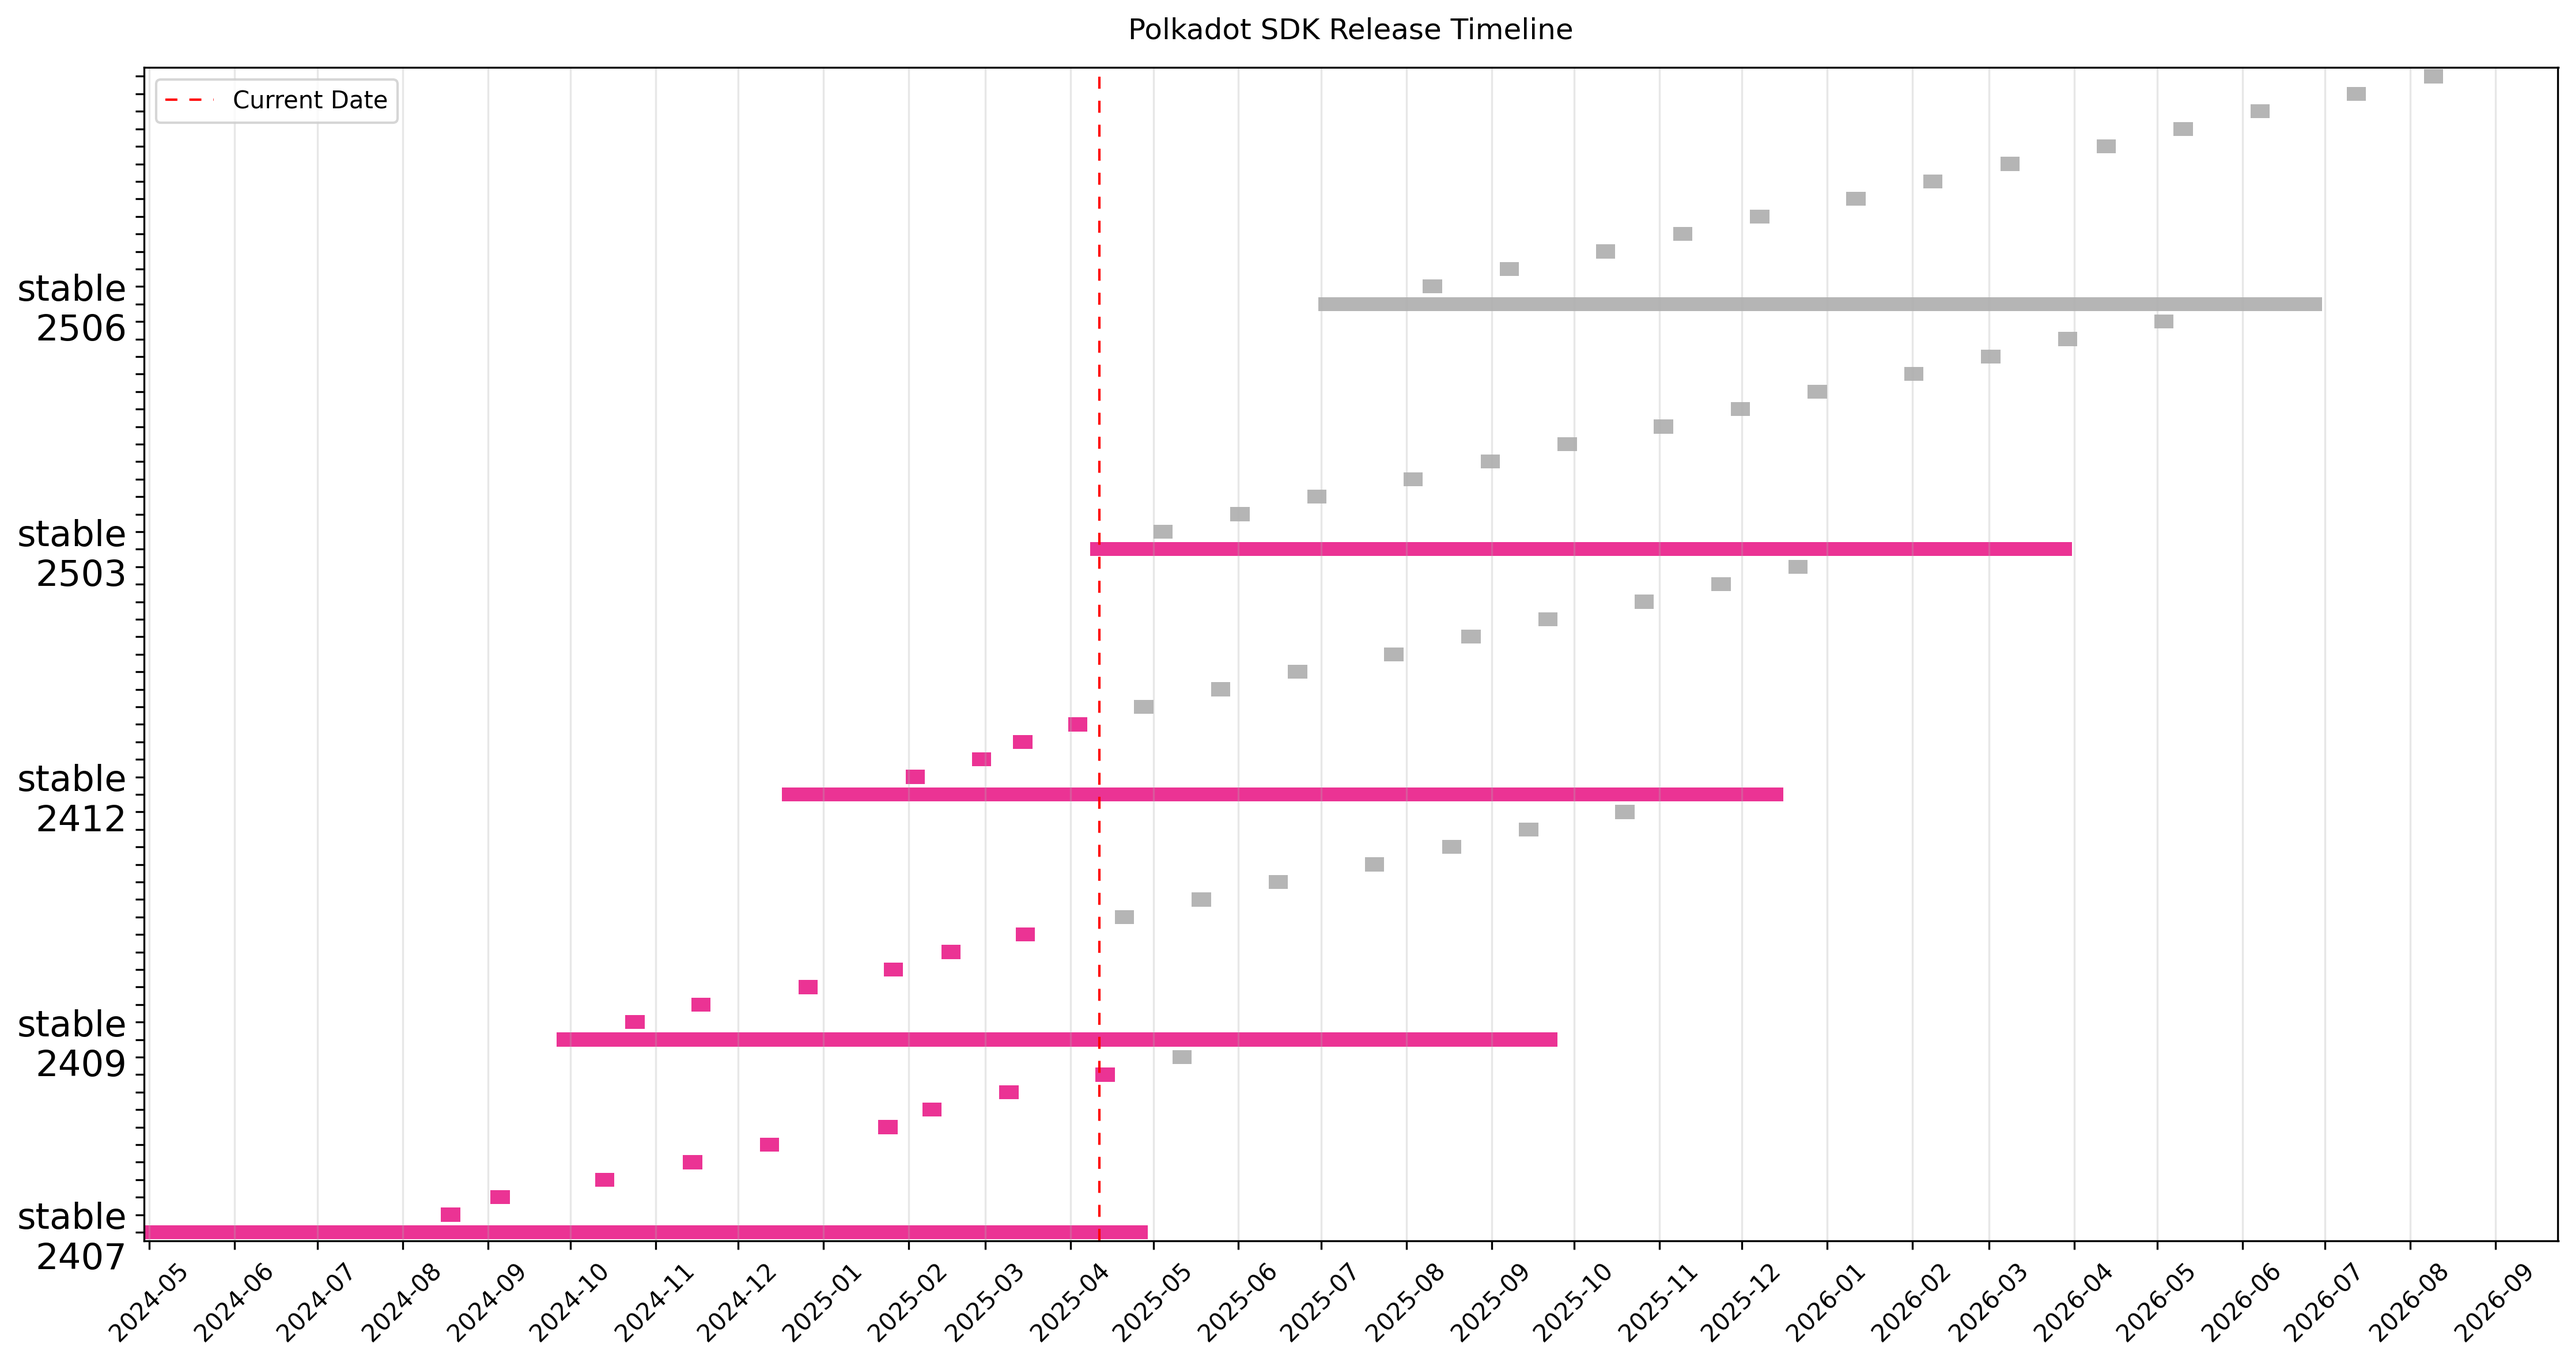
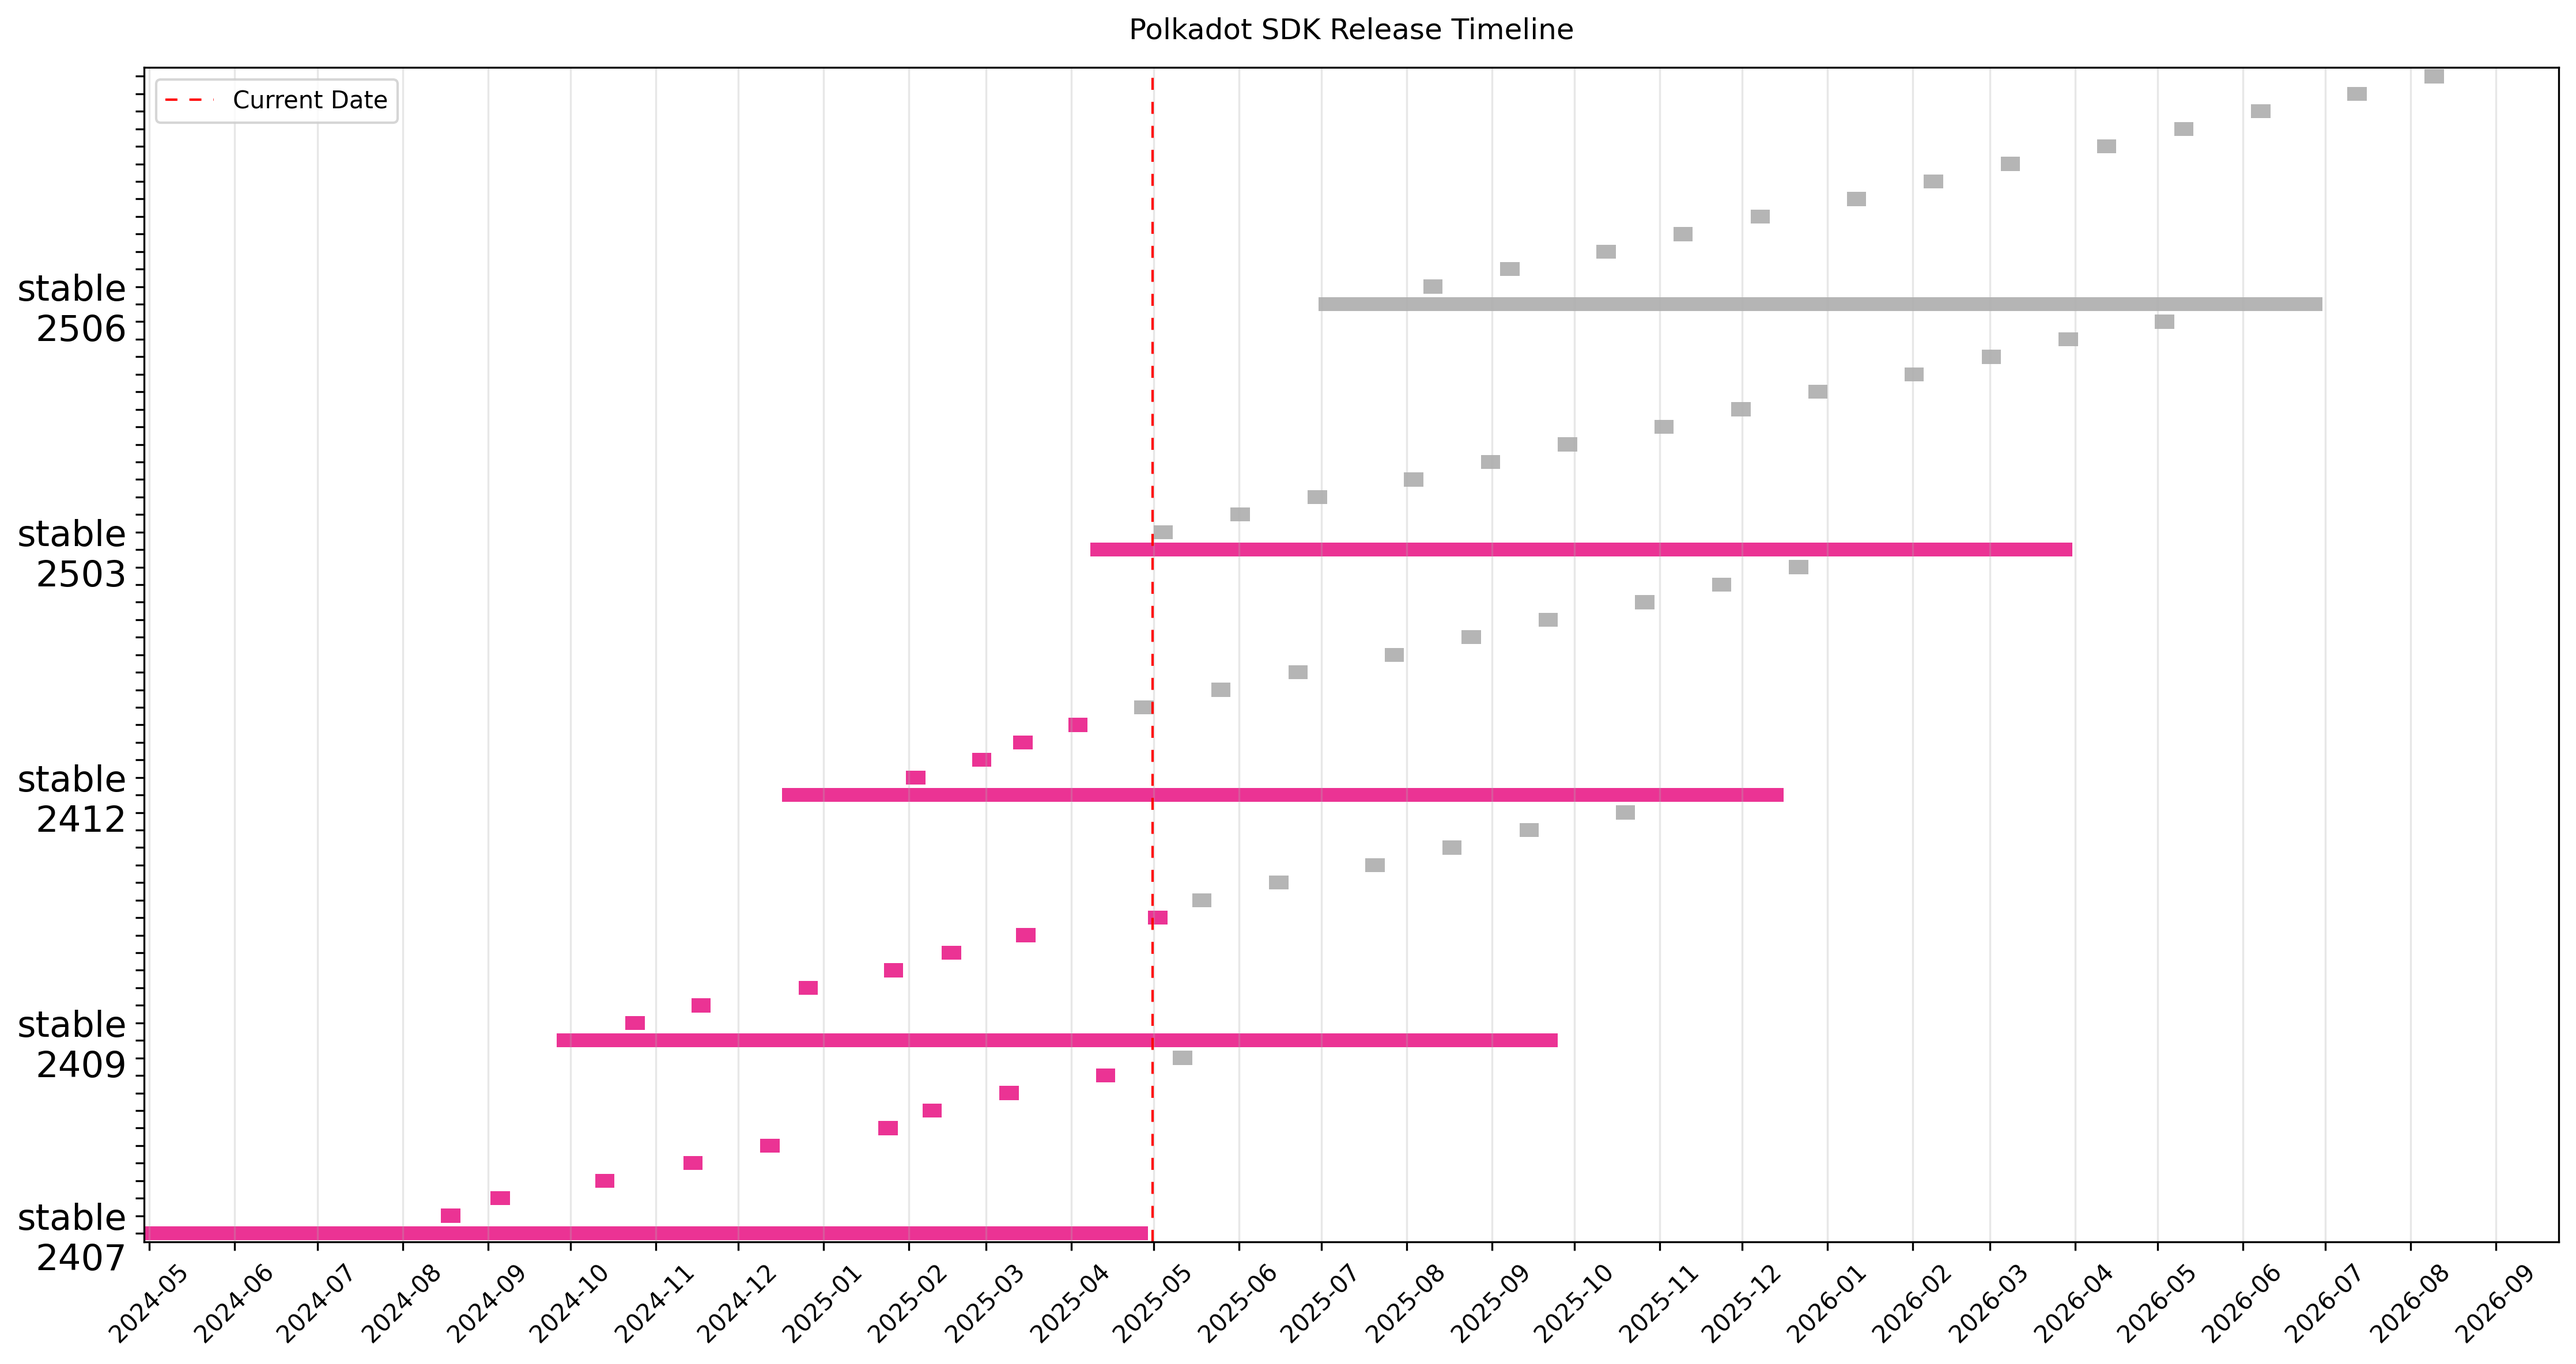
Update calendar with 2409-7

Changed region(s): [[0.4354, 0.6479, 0.4665, 0.6788]]

diff --git a/README.md b/README.md
@@ -26,11 +26,11 @@ Planned and historic release dates:
 | &nbsp;&nbsp;stable2407-10 | 2025-05-05 | 2025-05-08 |  | Planned |
 | &nbsp;&nbsp;[7 more past](CALENDAR.md) |  |  | | |
 | **stable2409** | 2024-09-02 | 2024-09-26 | 2025-09-25 | [Released](https://github.com/paritytech/polkadot-sdk/releases/tag/polkadot-stable2409) |
-| &nbsp;&nbsp;stable2409-5 | 2025-02-13 | 2025-02-13 |  | [Released](https://github.com/paritytech/polkadot-sdk/releases/tag/polkadot-stable2409-5) |
 | &nbsp;&nbsp;stable2409-6 | 2025-03-12 | 2025-03-12 |  | [Released](https://github.com/paritytech/polkadot-sdk/releases/tag/polkadot-stable2409-6) |
-| &nbsp;&nbsp;stable2409-7 | 2025-04-14 | 2025-04-17 |  | Planned |
+| &nbsp;&nbsp;stable2409-7 | 2025-04-29 | 2025-04-29 |  | [Released](https://github.com/paritytech/polkadot-sdk/releases/tag/polkadot-stable2409-7) |
 | &nbsp;&nbsp;stable2409-8 | 2025-05-12 | 2025-05-15 |  | Planned |
-| &nbsp;&nbsp;[4 more past, 5 more planned](CALENDAR.md) |  |  | | |
+| &nbsp;&nbsp;stable2409-9 | 2025-06-09 | 2025-06-12 |  | Planned |
+| &nbsp;&nbsp;[5 more past, 4 more planned](CALENDAR.md) |  |  | | |
 | **stable2412** | 2024-11-06 | 2024-12-17 | 2025-12-16 | [Released](https://github.com/paritytech/polkadot-sdk/releases/tag/polkadot-stable2412) |
 | &nbsp;&nbsp;stable2412-3 | 2025-03-11 | 2025-03-11 |  | [Released](https://github.com/paritytech/polkadot-sdk/releases/tag/polkadot-stable2412-3) |
 | &nbsp;&nbsp;stable2412-4 | 2025-03-11 | 2025-03-31 |  | [Released](https://github.com/paritytech/polkadot-sdk/releases/tag/polkadot-stable2412-4) |

diff --git a/CALENDAR.md b/CALENDAR.md
@@ -26,7 +26,7 @@ Full untruncated version index.
 | &nbsp;&nbsp;stable2409-4 | 2025-01-23 | 2025-01-23 |  | [Released](https://github.com/paritytech/polkadot-sdk/releases/tag/polkadot-stable2409-4) |
 | &nbsp;&nbsp;stable2409-5 | 2025-02-13 | 2025-02-13 |  | [Released](https://github.com/paritytech/polkadot-sdk/releases/tag/polkadot-stable2409-5) |
 | &nbsp;&nbsp;stable2409-6 | 2025-03-12 | 2025-03-12 |  | [Released](https://github.com/paritytech/polkadot-sdk/releases/tag/polkadot-stable2409-6) |
-| &nbsp;&nbsp;stable2409-7 | 2025-04-14 | 2025-04-17 |  | Planned |
+| &nbsp;&nbsp;stable2409-7 | 2025-04-29 | 2025-04-29 |  | [Released](https://github.com/paritytech/polkadot-sdk/releases/tag/polkadot-stable2409-7) |
 | &nbsp;&nbsp;stable2409-8 | 2025-05-12 | 2025-05-15 |  | Planned |
 | &nbsp;&nbsp;stable2409-9 | 2025-06-09 | 2025-06-12 |  | Planned |
 | &nbsp;&nbsp;stable2409-10 | 2025-07-14 | 2025-07-17 |  | Planned |
